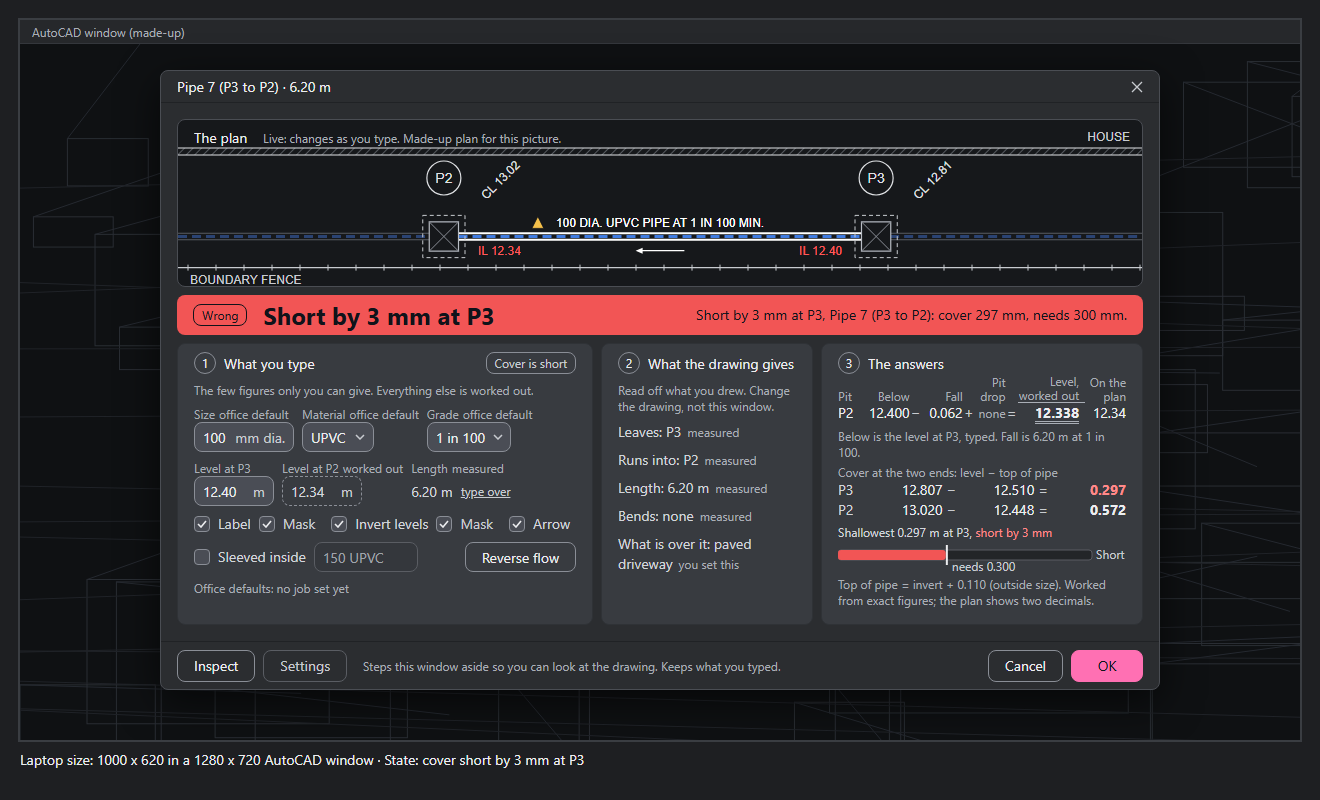
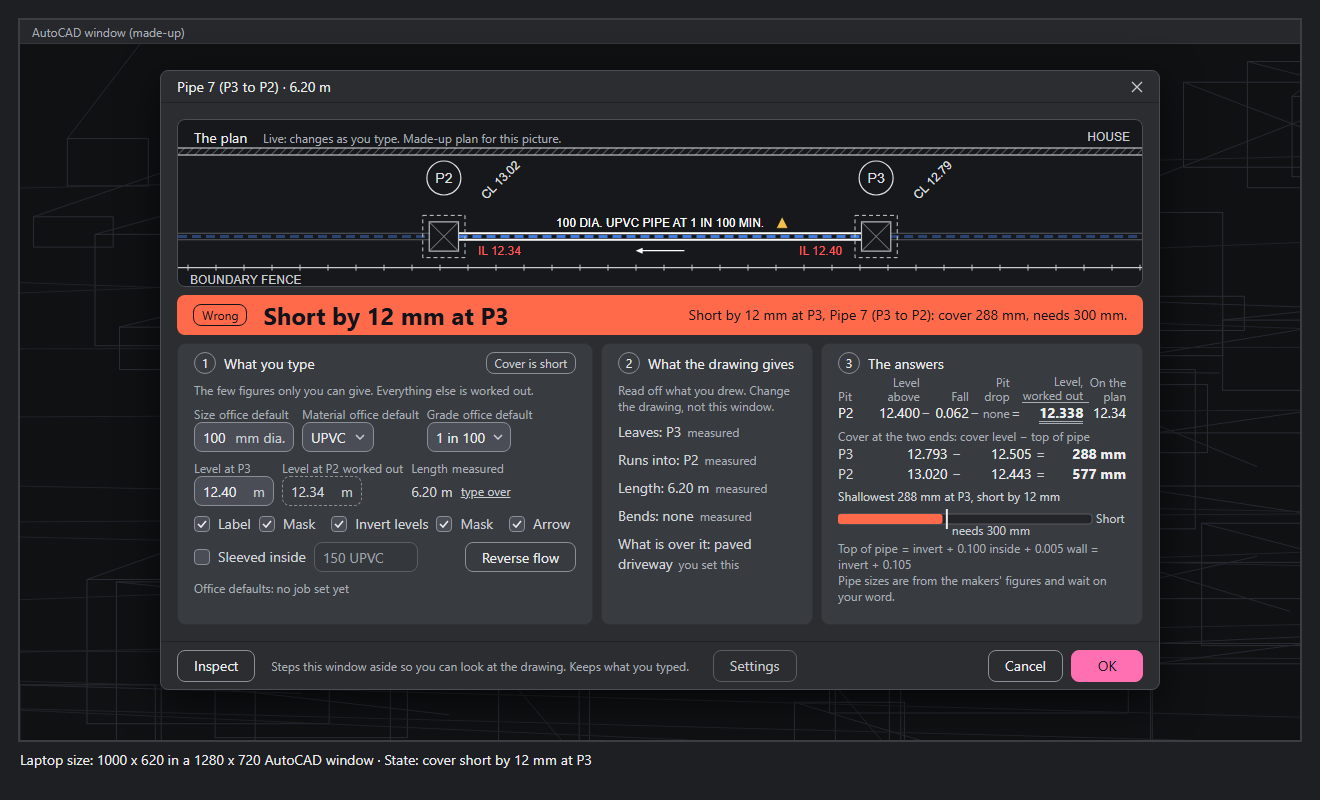
Tim's room: single-pipe window, Settings window and sheets after the third and fourth fix passes (check room's second look, D-426)

diff --git a/zero/pictures/single_pipe_window.html b/zero/pictures/single_pipe_window.html
@@ -6,7 +6,7 @@
 <title>Pipe window for one pipe</title>
 <style>
   :root{--win:#2B2D30;--card:#383B40;--well:#232528;--inp:#4A4D55;--bd:#4A4D53;--ibd:#8A8E96;--cad:#16181B;
-        --text:#ECEDEF;--body:#D2D5DA;--grey:#A9AEB6;--unit:#C8CBD0;--amber:#F5C04A;--green:#5ED08F;--red:#F25555;--redtx:#FF8A8A;--rose:#FF70B3;--dark:#10131A}
+        --text:#ECEDEF;--body:#D2D5DA;--grey:#A9AEB6;--unit:#C8CBD0;--amber:#F5C04A;--green:#5ED08F;--red:#FF6B4A;--redtx:#ECEDEF;--rose:#FF70B3;--dark:#10131A}
   *{box-sizing:border-box}
   html,body{margin:0;background:#1E1F22;font-family:"Segoe UI",Arial,sans-serif;font-size:14px;color:var(--body);overflow:hidden}
   body{padding:20px;font-variant-numeric:tabular-nums}
@@ -140,7 +140,7 @@
   <svg class="bg" id="bg"></svg>
 
   <div class="win">
-    <div class="tb"><span>Pipe 7 (P3 to P2) &middot; 6.20 m</span>
+    <div class="tb"><span id="ttl">Pipe 7 (P3 to P2) &middot; 6.20 m</span>
       <svg width="12" height="12" viewBox="0 0 12 12"><path d="M1 1l10 10M11 1L1 11" stroke="#C8CBD0" stroke-width="1.3" fill="none"/></svg></div>
 
     <div class="wb">
@@ -155,8 +155,8 @@
           <div class="ch"><span class="num">1</span><span>What you type</span><span class="sp"></span><span class="tag out" id="s1tag">Nothing needs you</span></div>
           <div class="why">The few figures only you can give. Everything else is worked out.</div>
           <div class="rows">
-            <div class="r">
-              <div class="f"><span class="l">Size<span class="src">office default</span></span><div class="box" style="width:100px">100<span class="u">mm dia.</span></div></div>
+            <div class="r" id="row1">
+              <div class="f"><span class="l">Size<span class="src">office default</span></span><div class="box" id="sizebox" style="width:100px">100<span class="u">mm dia.</span></div></div>
               <div class="f"><span class="l">Material<span class="src">office default</span></span><div class="box" style="width:72px">UPVC<span class="u chev"></span></div></div>
               <div class="f"><span class="l">Grade<span class="src">office default</span></span><div class="box" style="width:84px">1 in 100<span class="u chev"></span></div></div>
             </div>
@@ -209,7 +209,7 @@
     </div>
 
     <div class="bar">
-      <div class="btn">Inspect</div><div class="btn quiet">Settings</div><span class="grey note">Steps this window aside so you can look at the drawing. Keeps what you typed.</span>
+      <div class="btn">Inspect</div><span class="grey note">Steps this window aside so you can look at the drawing. Keeps what you typed.</span><div class="btn quiet" style="margin-left:16px">Settings</div>
       <span class="sp"></span>
       <div class="btn cn">Cancel</div><div class="btn ok">OK</div>
     </div>
@@ -222,39 +222,43 @@ var NS="http://www.w3.org/2000/svg",CAD="#16181B",BLUE="#3F7BE0",RED="#FF5A5A",A
 function el(n,a,t){var e=document.createElementNS(NS,n);for(var k in a)e.setAttribute(k,a[k]);if(t!==undefined)e.textContent=t;return e}
 var q=(location.search.match(/v=(\w+)/)||[])[1]==="desktop"?"desktop":"laptop";
 var S=(location.search.match(/s=(\w+)/)||[])[1]||"noover";     // noover (default) | cover | wrong | nolevel | nosurface
-if(["noover","cover","wrong","nolevel","nosurface"].indexOf(S)<0)S="noover";
+if(["noover","cover","within","wrong","nolevel","nosurface","existing"].indexOf(S)<0)S="noover";
 var LONG=/n=long/.test(location.search);                         // fit test only: four-character pit names
-var NA=LONG?"P12A":"P2",NB=LONG?"P11B":"P3";
+var NA=LONG?"P12A":"P2",NB=LONG?"P13B":"P3";
 document.body.className=q;
-var SN={noover:"what is over it not set (the default view)",cover:"what is over it set, cover suits",wrong:"cover short by 3 mm at "+NB,nolevel:"no level typed",nosurface:"what is over it set, levels known, no cover level at "+NB};
+document.getElementById("ttl").textContent="Pipe 7 ("+NB+" to "+NA+") · 6.20 m";
+var SN={noover:"what is over it not set (the default view)",cover:"what is over it set, cover suits",within:"what is over it set, cover 297 mm, within the 5 mm tolerance",wrong:"cover short by 12 mm at "+NB,nolevel:"no level typed",nosurface:"what is over it set, levels known, no cover level at "+NB,existing:"a pipe already drawn, opened again (as by a double-click)"};
 document.getElementById("cap").textContent=(q==="laptop"?"Laptop size: 1000 x 620 in a 1280 x 720 AutoCAD window":"Desktop size: 1240 x 780 in a 1920 x 1040 AutoCAD window")+" · State: "+SN[S];
 Array.prototype.forEach.call(document.querySelectorAll(".chev"),function(e){e.innerHTML='<svg width="10" height="6" viewBox="0 0 10 6" style="display:block"><path d="M1 1l4 4 4-4" fill="none" stroke="#C8CBD0" stroke-width="1.5"/></svg>'});
 
 /* ---- the figures, exact in whole millimetres; only what is printed is rounded ---- */
-var OVER=(S==="cover"||S==="wrong"), NOLEV=(S==="nolevel"), WRONG=(S==="wrong"), NOSURF=(S==="nosurface");
+var EXIST=(S==="existing"), OVER=(S==="cover"||S==="within"||S==="wrong"), WITHIN=(S==="within"), NOLEV=(S==="nolevel"), WRONG=(S==="wrong"), NOSURF=(S==="nosurface");
 var LENMM=6200;                      // pipe 7, P3 to P2, pit wall to pit wall
 var UP=12400;                        // level at P3, typed (mm)
 var FALL=LENMM/100;                  // 1 in 100 exactly: 6200 / 100 = 62 mm
 var DOWN=UP-FALL;                    // level at P2, worked out = 12338 mm
-var OUTSZ=110, NEED=300;             // the pipe's outside size, cover needed (mm)
-var CL2=13020, CL3=WRONG?12807:13100;// cover levels at P2 and P3 (mm)
-var TOP3=UP+OUTSZ, TOP2=DOWN+OUTSZ;  // tops of pipe at each end
+var INS=100, WALL=5, TOPADD=INS+WALL, NEED=300, TOL=5;  // 100 UPVC: inside 0.100 + one wall 0.005 (outside 110, so (110-100)/2) = 0.105 above the invert; cover needed; tolerance (mm)
+var CL2=13020, CL3=WRONG?12793:(WITHIN?12802:13100);// cover levels at P2 and P3 (mm)
+var TOP3=UP+TOPADD, TOP2=DOWN+TOPADD;  // tops of pipe at each end
 var COV3=CL3-TOP3, COV2=CL2-TOP2;    // cover at each end
 var SHALLOW=Math.min(COV3,COV2), SHAL_AT=COV3<=COV2?NB:NA, SHORT=NEED-SHALLOW;
 function f3(mm){return (mm/1000).toFixed(3)}
 function f2r(mm){return (Math.floor((mm+5)/10)/100).toFixed(2)}   // round half up to 2 decimals, only for printing
 function lenTxt(){return (LENMM/1000).toFixed(2)+" m"}
-if(FALL!==62||DOWN!==12338||f2r(DOWN)!=="12.34"||f2r(UP)!=="12.40"||TOP3!==12510||TOP2!==12448)throw new Error("sum");
-if(!WRONG&&(COV3!==590||COV2!==572))throw new Error("cover sum");
-if(WRONG&&(COV3!==297||SHORT!==3))throw new Error("cover sum wrong");
+if(FALL!==62||DOWN!==12338||f2r(DOWN)!=="12.34"||f2r(UP)!=="12.40"||TOP3!==12505||TOP2!==12443)throw new Error("sum");
+if(OVER&&COV2!==577)throw new Error("cover sum P2");
+if(S==="cover"&&COV3!==595)throw new Error("cover sum");
+if(WITHIN&&(COV3!==297||SHORT!==3||SHORT>TOL))throw new Error("cover sum within");
+if(WRONG&&(COV3!==288||SHORT!==12||SHORT<=TOL))throw new Error("cover sum wrong");
 var NK="Not known";
 
 /* the band */
 (function(){var b=document.getElementById("band"),h;
   if(NOLEV){b.className="band gry";h='<span class="pill">Cannot check yet</span><span class="ans">Levels: Not known</span><span class="bn">Type one level to work out the rest</span>'}
-  else if(NOSURF){b.className="band gry";h='<span class="pill">Cannot check yet</span><span class="ans">Cover: Not known</span><span class="bn">No cover level at '+NB+'</span>'}
+  else if(NOSURF){b.className="band gry";h='<span class="pill">Cannot check yet</span><span class="ans">Cover: Not known</span><span class="bn">'+NB+' needs a cover level</span>'}
   else if(WRONG){b.className="band red";h='<span class="pill">Wrong</span><span class="ans">Short by '+SHORT+' mm at '+SHAL_AT+'</span><span class="bn">Short by '+SHORT+' mm at '+SHAL_AT+', Pipe 7 ('+NB+' to '+NA+'): cover '+SHALLOW+' mm, needs '+NEED+' mm.</span>'}
-  else if(OVER){h='<span class="pill">Suits</span><span class="ans">Fall 1 in 100</span><span class="bn">Cover '+(SHALLOW/1000).toFixed(2)+' m, needs '+(NEED/1000).toFixed(2)+' m</span>'}
+  else if(WITHIN){h='<span class="pill">Suits</span><span class="ans">Fall 1 in 100</span><span class="bn">Cover '+SHALLOW+' mm: within the '+TOL+' mm tolerance</span>'}
+  else if(OVER){h='<span class="pill">Suits</span><span class="ans">Fall 1 in 100</span><span class="bn">Cover '+SHALLOW+' mm, needs '+NEED+' mm</span>'}
   else{h='<span class="pill">Suits</span><span class="ans">Fall 1 in 100</span>'}
   b.innerHTML=h})();
 
@@ -267,45 +271,49 @@ document.getElementById("p3l").textContent="Level at "+NB;document.getElementByI
   if(NOLEV){a.innerHTML='<span class="nk">'+NK+'</span>';b.innerHTML='<span class="nk">'+NK+'</span>';w.textContent="";
     document.getElementById("s1tag").textContent="Needs one level"}
   else{a.innerHTML='<span>'+f2r(UP)+'</span><span class="u">m</span>';b.innerHTML='<span>'+f2r(DOWN)+'</span><span class="u">m</span>'}})();
+if(EXIST){var ss=document.querySelectorAll("#row1 .l .src");ss[0].textContent="measured";ss[1].textContent="read off the pipe";ss[2].textContent="read off the pipe";document.getElementById("sizebox").className="box dash"}
 if(OVER||NOSURF)document.getElementById("s2over").style.display="";
 if(WRONG)document.getElementById("s1tag").textContent="Cover is short";
-if(NOSURF)document.getElementById("s1tag").textContent="Needs a cover level";
+if(NOSURF)document.getElementById("s1tag").textContent=NB+" needs a cover level";
 
 /* step 3: the fall sum */
 /* ONE table row, the run window's columns: Pit, Below, Fall, Pit drop, Level worked out, On the plan.
-   Below is the level at the pit the figure is worked from (P3, typed); the fall is taken off it going down to P2. */
+   Above is the level at the higher pit (P3, typed); the fall and the pit drop are taken off it going down to P2. */
 (function(){var t=document.getElementById("t3"),nt=document.getElementById("t3n");
-  var w=NOLEV?(q==="laptop"?[22,46,12,40,12,30,12,52,44]:[24,62,14,46,14,40,14,66,62]):(q==="laptop"?[20,50,12,40,12,30,12,66,40]:[28,60,16,50,16,44,16,70,52]);
+  var w=NOLEV?(q==="laptop"?[34,46,12,34,12,28,12,56,44]:[38,62,14,44,14,38,14,66,62]):(q==="laptop"?[34,46,12,36,12,28,12,66,36]:[38,58,16,48,16,42,16,68,50]);
   var h='<colgroup>'+w.map(function(x){return '<col style="width:'+x+'px">'}).join('')+'</colgroup>';
-  h+='<tr><th style="text-align:left">Pit</th><th>Below</th><th></th><th>Fall</th><th></th><th>Pit<br>drop</th><th></th><th>Level,<br>worked out</th><th>On the<br>plan</th></tr>';
+  h+='<tr><th style="text-align:left">Pit</th><th>Level<br>above</th><th></th><th>Fall</th><th></th><th>Pit<br>drop</th><th></th><th>Level,<br>worked out</th><th>On the<br>plan</th></tr>';
   var NKT=q==="laptop"?'Not<br>known':NK;          /* two short lines at laptop width so three of them fit in one row */
   var NKS='<span class="nk">'+NKT+'</span>';
-  h+='<tr><td class="pn">'+NA+'</td><td>'+(NOLEV?NKS:f3(UP))+'</td><td class="sg">&minus;</td><td>'+f3(FALL)+'</td><td class="sg">+</td><td class="none">none</td><td class="sg">=</td>'
+  h+='<tr><td class="pn">'+NA+'</td><td>'+(NOLEV?NKS:f3(UP))+'</td><td class="sg">&minus;</td><td>'+f3(FALL)+'</td><td class="sg">&minus;</td><td class="none">none</td><td class="sg">=</td>'
     +'<td class="fin">'+(NOLEV?'<b class="nk">'+NKT+'</b>':'<b>'+f3(DOWN)+'</b>')+'</td><td>'+(NOLEV?NKS:f2r(DOWN))+'</td></tr>';
   t.innerHTML=h;
-  nt.textContent=NOLEV?'Below is the level at '+NB+': '+NK+'. Fall is '+lenTxt()+' at 1 in 100.':'Below is the level at '+NB+', typed. Fall is '+lenTxt()+' at 1 in 100.';
-  if(NOSURF)nt.innerHTML=nt.textContent+'<br>Cover at '+NA+' is '+f3(COV2)+' m. Cover at '+NB+': '+NK+', no cover level there.'})();
+  nt.textContent=NOLEV?'Above is the level at '+NB+': '+NK+'. Fall is '+lenTxt()+' at 1 in 100.':'Above is the level at '+NB+', typed. Fall is '+lenTxt()+' at 1 in 100.';
+  if(NOSURF)nt.innerHTML=nt.textContent+'<br>Cover at '+NA+' is '+COV2+' mm. Cover at '+NB+': '+NK+', no cover level there.'})();
 
 /* step 3: the cover check, at the two ends only, with its bar */
 if(OVER){(function(){var blk=document.getElementById("cvblock");blk.style.display="";
-  var lap=q==="laptop",w=lap?[24,58,14,58,14,58]:[30,70,18,70,18,70];
-  function row(nm,cl,top,cov,bad){return '<tr><td class="lb">'+nm+'</td><td class="fg">'+f3(cl)+'</td><td class="sg">&minus;</td><td class="fg">'+f3(top)+'</td><td class="sg">=</td><td class="fg'+(bad?' bad':'')+'"><b>'+f3(cov)+'</b></td></tr>'}
-  var h='<div class="grey cvh">Cover at the two ends: level &minus; top of pipe</div>';
+  var lap=q==="laptop",w=lap?[34,52,14,52,14,60]:[38,66,18,66,18,76];
+  function row(nm,cl,top,cov,bad){return '<tr><td class="lb">'+nm+'</td><td class="fg">'+f3(cl)+'</td><td class="sg">&minus;</td><td class="fg">'+f3(top)+'</td><td class="sg">=</td><td class="fg'+(bad?' bad':'')+'"><b>'+cov+' mm</b></td></tr>'}
+  var h='<div class="grey cvh">Cover at the two ends: cover level &minus; top of pipe</div>';
   h+='<table class="sum cvt"><colgroup>'+w.map(function(x){return '<col style="width:'+x+'px">'}).join('')+'</colgroup>'
     +row(NB,CL3,TOP3,COV3,WRONG)+row(NA,CL2,TOP2,COV2,false)+'</table>';
-  h+='<div class="cvline">Shallowest '+f3(SHALLOW)+' m at '+SHAL_AT+(WRONG?', <span class="bad">short by '+SHORT+' mm</span>':' against '+f3(NEED)+' m needed')+'</div>';
+  h+='<div class="cvline">Shallowest '+SHALLOW+' mm at '+SHAL_AT+(WRONG?', short by '+SHORT+' mm':' against '+NEED+' mm needed')+'</div>';
+  if(WITHIN)h+='<div class="cvline">Cover at '+NB+' '+SHALLOW+' mm: within the '+TOL+' mm tolerance</div>';
   h+='<svg id="cvbar"></svg>';
   blk.innerHTML=h;
   var W=blk.clientWidth,H=30,s=document.getElementById("cvbar");s.setAttribute("width",W);s.setAttribute("height",H);s.setAttribute("viewBox","0 0 "+W+" "+H);
-  var maxv=700,x0=0,x1=W-34,sc=(x1-x0)/maxv, ok=!WRONG, col=ok?"#5ED08F":"#F25555";
+  var maxv=700,x0=0,x1=W-34,sc=(x1-x0)/maxv, ok=!WRONG, col=ok?"#5ED08F":"#FF6B4A";
   s.appendChild(el("rect",{x:x0,y:8,width:x1-x0,height:10,rx:3,fill:"#232528",stroke:"#5A5D63","stroke-width":1}));
   s.appendChild(el("rect",{x:x0,y:8,width:Math.max(2,SHALLOW*sc),height:10,rx:3,fill:col}));
   s.appendChild(el("line",{x1:NEED*sc,y1:3,x2:NEED*sc,y2:23,stroke:"#ECEDEF","stroke-width":2}));
-  s.appendChild(el("text",{x:NEED*sc+5,y:H-1,"font-size":12,style:"fill:#C8CBD0;font-family:'Segoe UI',Arial,sans-serif"},"needs 0.300"));
+  s.appendChild(el("text",{x:NEED*sc+5,y:H-1,"font-size":12,style:"fill:#C8CBD0;font-family:'Segoe UI',Arial,sans-serif"},"needs 300 mm"));
   s.appendChild(el("text",{x:x1+4,y:17,"font-size":12,style:"fill:#C8CBD0;font-family:'Segoe UI',Arial,sans-serif"},ok?"Suits":"Short"));
   if(lap){document.getElementById("why3").style.display="none";document.querySelector(".s3b").style.marginTop="4px"}else document.getElementById("why3").textContent="Does it fall enough, and is there enough cover?";
   document.getElementById("side").style.display="none";
-  document.getElementById("n3").textContent="Top of pipe = invert + "+f3(OUTSZ)+" (outside size). Worked from exact figures; the plan shows two decimals."})()}
+  if(lap)document.getElementById("t3n").style.display="none";   /* laptop: the "Above is..." note goes so the cover check and its sums fit */
+  var n3=document.getElementById("n3");n3.style.whiteSpace="normal";
+  n3.innerHTML="Top of pipe = invert + "+f3(INS)+" inside + "+f3(WALL)+" wall = invert + "+f3(TOPADD)+"<br>Pipe sizes are from the makers' figures and wait on your word."})()}
 
 /* side view: the one pipe, sloping down to P2 on the left (slope drawn bigger than real) */
 (function(){var s=document.getElementById("side");if(s.style.display==="none")return;var W=s.parentNode.clientWidth,H=q==="laptop"?40:56;
@@ -366,7 +374,7 @@ if(OVER){(function(){var blk=document.getElementById("cvblock");blk.style.displa
   var mx=(xa+xb)/2;
   // (a) label centred above the pipe
   var lab=txt(mx,py-OFF,"100 DIA. UPVC PIPE AT 1 IN 100 MIN.","#fff","middle");
-  if(WRONG){var lw=lab.getBBox().width,mh=12,mcx=mx-lw/2-mh-mh/2,mcy=py-OFF;   // amber marker: as wide as tall, as tall as the label text, one text height clear
+  if(WRONG){var lw=lab.getBBox().width,mh=12,mcx=mx+lw/2+mh+mh/2,mcy=py-OFF;   // amber marker: as wide as tall, as tall as the label text, one text height clear
     s.appendChild(el("polygon",{points:mcx+","+(mcy-mh/2)+" "+(mcx-mh/2)+","+(mcy+mh/2)+" "+(mcx+mh/2)+","+(mcy+mh/2),fill:AMB,stroke:"#10131A","stroke-width":0.8,id:"amber"}))}
   // (b) red invert levels below the pipe, 200 mm from the OUTER DASHED LINE of each pit (not shown when no level is typed)
   var e=200*K;

diff --git a/zero/pictures/night_sheets.html b/zero/pictures/night_sheets.html
@@ -3,7 +3,7 @@
 <head>
 <meta charset="utf-8">
 <meta name="viewport" content="width=device-width, initial-scale=1">
-<title>Five more questions for you</title>
+<title>Three more questions for you</title>
 <style>
   :root{--page:#2B2D30;--card:#383B40;--cad:#16181B;--text:#ECEDEF;--grey:#C8CBD0;--line:#4A4D53;--rose:#FF70B3}
   *{box-sizing:border-box}
@@ -67,9 +67,6 @@ function arrow(s,x,y,dir,L,H,open){var x1=x-dir*L/2,x2=x+dir*L/2,hw=H*0.21;
   if(open){s.appendChild(el("line",{x1:x2,y1:y,x2:x2-dir*H,y2:y-hw,stroke:"#fff","stroke-width":1.2}));
     s.appendChild(el("line",{x1:x2,y1:y,x2:x2-dir*H,y2:y+hw,stroke:"#fff","stroke-width":1.2}))}
   else s.appendChild(el("polygon",{points:x2+","+y+" "+(x2-dir*H)+","+(y-hw)+" "+(x2-dir*H)+","+(y+hw),fill:"#fff",stroke:"#fff","stroke-width":1}))}
-// amber triangle marker, h tall
-function mark(s,cx,cy,h){s.appendChild(el("polygon",{points:cx+","+(cy-h*0.55)+" "+(cx-h*0.62)+","+(cy+h*0.45)+" "+(cx+h*0.62)+","+(cy+h*0.45),fill:AMBER,stroke:"#10131A","stroke-width":0.8}))}
-
 /* ---------- SECTION 1 ---------- */
 function coverPanel(mode){var s=svg(428,295),x=214,y=128;pit(s,x,y);pipe(s,x+mm(225),400,y);brk(s,400,y);
   var CL="CL 12.95",w=tw(CL,200),d0=EDGE*1.4142,start=d0+mm(400),cen=start+w/2,q=cen*0.7071,e=(start+w+16)*0.7071;
@@ -81,33 +78,6 @@ function coverPanel(mode){var s=svg(428,295),x=214,y=128;pit(s,x,y);pipe(s,x+mm(
     txt(s,x+c[0]*q,y+c[1]*q,CL,200,{rot:rot});
     badge(s,x+c[0]*e,y+c[1]*e,c[2])});
   say(s,214,284,"400 mm off the corner of the pit's outer dashed line","middle");return s}
-
-/* ---------- SECTION 2 ---------- */
-function flowPanel(L,H,open,cap,closeScale){var s=svg(882,190),y=100,X2=110,X3=686,c=(X2+X3)/2;
-  pit(s,X2,y);pit(s,X3,y);pipe(s,X2+mm(225),X3-mm(225),y);tag(s,X2,y-mm(900),"P2");tag(s,X3,y-mm(900),"P3");
-  txt(s,c,y-offL,LBL,250);ilL(s,X2,y,"IL 12.31");ilR(s,X3,y,"IL 12.40");
-  arrow(s,c,y+offA,-1,mm(L),mm(H),open);
-  say(s,c,y+offA+46,cap,"middle");
-  s.appendChild(el("rect",{x:735,y:108,width:140,height:64,fill:"none",stroke:"#4A4D53","stroke-width":1}));
-  say(s,805,102,"close-up","middle");
-  var g=el("g",{transform:"translate(805 140) scale("+closeScale+")"});arrow(g,0,0,-1,mm(L),mm(H),open);s.appendChild(g);return s}
-
-/* ---------- SECTION 3 ---------- */
-function copiedPanel(approx){var s=svg(882,250),y=190,X6=130,X7=706,c=(X6+X7)/2,P=approx?"APPROX. ":"";
-  pit(s,X6,y);pit(s,X7,y);pipe(s,X6+mm(225),X7-mm(225),y);tag(s,X6,y-mm(900),"P6");tag(s,X7,y-mm(900),"P7");
-  txt(s,c,y-offL,LBL,250);ilL(s,X6,y,P+"IL 12.31");ilR(s,X7,y,P+"IL 12.40");
-  arrow(s,c,y+offA,-1,mm(750),mm(300),false);
-  [X6,X7].forEach(function(X){var CL=P+"CL 12.95",w=tw(CL,200),r=EDGE*1.4142+mm(400)+w/2,q=r*0.7071;txt(s,X+q,y-q,CL,200,{rot:-45})});
-  if(approx){say(s,c,240,"every figure carries APPROX. until it is confirmed; no amber markers","middle")}
-  else{
-    // one triangle beside each assumed figure: as tall as that text, one text height clear of it
-    var ih=fsz(180),ch=fsz(200),iw=tw("IL 12.31",180),aw=iw*0.8,
-        ex=X6+EDGE+mm(200)+aw;                       // right end of the left invert level
-    mark(s,ex+ih+ih*0.62,y+offI,ih);                 // beside IL (left pit): to the right of it
-    mark(s,X7-EDGE-mm(200)-aw-ih-ih*0.62,y+offI,ih); // beside IL (right pit): to the left of it
-    [X6,X7].forEach(function(X){var w=tw("CL 12.95",200),r=EDGE*1.4142+mm(400)+w/2,d=r+w*0.4+ch+ch*0.62,q=d*0.7071;mark(s,X+q,y-q,ch)});
-    say(s,c,240,"amber marker: assumed, not confirmed (never printed)","middle")}
-  return s}
 
 /* ---------- SECTION 4 ---------- */
 function screen4(withPit){var s=svg(428,300),W="#3A3E45";
@@ -161,36 +131,25 @@ function hoverPanel(which){var s=svg(882,250),y=120,X2=170,X3=690,c=(X2+X3)/2,r=
   arrow(s,c,y+offA,-1,mm(750),mm(300),false);
   [[X2,"CL 13.02"],[X3,"CL 13.10"]].forEach(function(p){var w=tw(p[1],200),rr=EDGE*1.4142+mm(400)+w/2,q=rr*0.7071;txt(s,p[0]+q,y-q,p[1],200,{rot:-45})});
   if(which==="pit"){cursor(s,X3+3,y+3);tip(s,X3+30-340,y+52,"P3 · 450 x 450 mm junction pit · CL 13.10","Double-click to change it",340)}
-  else{cursor(s,X2+150,y+1);tip(s,X2+170,y+52,"Pipe 7 (P3 to P2) · 100 dia. UPVC · 1 in 100 · 6.20 m","Double-click to change it",450)}
+  else{cursor(s,X2+150,y+1);tip(s,X2+170,y+52,"Pipe 7 (P3 to P2) · 100 mm dia. UPVC · 1 in 100 · 6.20 m","Double-click to change it",490)}
   return s}
 
 var Q=[
-{h:"Which way should the cover level’s words run at each corner?",
- foot:"Earlier today you ruled the 400 mm is measured to the start of the text; on the left-hand corners options A and B differ on exactly that.",
+{n:1,h:"Which way should the cover level’s words run at each corner?",
+ foot:"Earlier today you picked the 400 mm is measured to the start of the text; on the left-hand corners options A and B differ on exactly that.",
  ctx:"You said: “the cover level text always needs to be aligned from pit outwards”. Each picture shows one pit with the cover level at all four corners at once, only so you can compare. Badge 1 is top right, then clockwise. It is always at 45 degrees to the sheet.",
  body:function(sec){var two=document.createElement("div");two.className="two";
   add(two,"A. Always reads the right way up",coverPanel("A"),"On the right-hand corners the words start at the pit; on the left-hand corners they end at the pit. None is ever upside down.",1,"On the left-hand corners the 400 mm is measured to the END of the words, not their start.");
   add(two,"B. Always begins at the pit",coverPanel("B"),"The words always run away from the pit; on the left-hand corners they read upside down.",0,"This is how your words on the grips were first written down: the words always begin at the pit.");
   sec.appendChild(two)}},
-{h:"The flow arrow: what it looks like",
- ctx:"The same pipe each time: 9000 mm long from P3 down to P2, label above, invert levels below, the arrow below the pipe in the middle. Only the arrow changes. The close-up is the same arrow, enlarged.",
- body:function(sec){
-  add(sec,"A. As on your issued sheets",flowPanel(750,300,false,"750 mm long, solid head 300 mm long",2.7),"The arrow you draw today: 750 mm long, solid head. Not to scale.",1);
-  add(sec,"B. Shorter",flowPanel(500,200,false,"500 mm long, solid head 200 mm long",2.7),"Takes less room between the two levels on a short pipe. Not to scale.");
-  add(sec,"C. Open head",flowPanel(750,300,true,"750 mm long, open head 300 mm long, not filled",2.7),"Lighter on a busy plan; not how your sheets look now. Not to scale.")}},
-{h:"Levels copied to the next unit: how ‘assumed’ shows",
- ctx:"You ruled that when a system is copied to the mirror unit the levels copy across but are marked assumed until confirmed, and an assumed figure prints “APPROX.” in front. Here is one copied pipe, P7 down to P6, 9000 mm long.",
- body:function(sec){
-  add(sec,"A. APPROX. on the plan, until you confirm",copiedPanel(true),"The sheet itself says the levels are not confirmed. Confirm a level in its window and APPROX. goes.",1);
-  add(sec,"B. Plain levels with the amber marker",copiedPanel(false),"The plan looks finished; only the marker on screen tells you. Nothing on the printed sheet warns anyone.")}},
-{h:"While the Pit window is open: is the new pit also on the drawing behind?",
+{n:4,h:"While the Pit window is open: is the new pit also on the drawing behind?",
  top:"On 18 Nov you picked ‘Both: top preview in the window, and the real drawing lights up’. Today you said the live view belongs in the window’s own panel. Which do you want now?",
  ctx:"You have clicked a spot for a new pit and its window is open. Both pictures are the same moment on the AutoCAD screen: a faint house wall and path, the Pit window floating over part of it. The window here is only a stand-in.",
  body:function(sec){var two=document.createElement("div");two.className="two";
   add(two,"A. Only in the window until you press OK",screen4(false),"One place to look. The pit lands on the drawing when you press OK; Cancel leaves nothing behind.",0,"The pit that followed your cursor disappears from the drawing when the window opens, and comes back when you press OK.");
-  add(two,"B. In the window and on the drawing behind",screen4(true),"Drag the window aside and the pit is already there. Cancel removes it.",0,"Shown on the drawing, not saved until OK; Cancel removes it.");
+  add(two,"B. In the window and on the drawing behind",screen4(true),"Drag the window aside and the pit is already there.",0,"Shown on the drawing, not saved until OK; Cancel removes it.");
   sec.appendChild(two)}},
-{h:"Hovering over a pit or a pipe",
+{n:5,h:"Hovering over a pit or a pipe",
  ctx:"A proposal for you to correct. Rest the cursor on a part, without clicking, and it lights up and a small tip says what it is. The two pictures are two different moments, one after the other: you have one cursor.",
  body:function(sec){
   add(sec,"Over a pit",hoverPanel("pit"),"The pit lights and says what it is. A single click selects it, as in plain AutoCAD. Not to scale.");
@@ -200,7 +159,7 @@ function add(parent,h,s,n,rec,n2){var d=document.createElement("div");d.classNam
   if(rec){var r=document.createElement("span");r.className="rec";r.textContent="Recommended";hh.appendChild(r)}
   d.appendChild(hh);d.appendChild(s);var p=document.createElement("p");p.className="note";p.textContent=n;d.appendChild(p);if(n2){var p2=document.createElement("p");p2.className="note";p2.style.color="#ECEDEF";p2.textContent=n2;d.appendChild(p2)}parent.appendChild(d)}
 var only=(location.search.match(/q=(\d)/)||[])[1],host=document.getElementById("host");
-Q.forEach(function(q,i){if(only&&only!=i+1)return;var sec=document.createElement("section");sec.className="q";
+Q.forEach(function(q){if(only&&only!=q.n)return;var sec=document.createElement("section");sec.className="q";
   sec.innerHTML="<h2></h2><p class='ctx'></p>";sec.querySelector("h2").textContent=q.h;sec.querySelector(".ctx").textContent=q.ctx;if(q.top){var t=document.createElement("p");t.className="top";t.textContent=q.top;sec.appendChild(t)}q.body(sec);if(q.foot){var f=document.createElement("p");f.className="foot";f.textContent=q.foot;sec.appendChild(f)}host.appendChild(sec)});
 </script>
 </body>

diff --git a/zero/pictures/ce_settings_window.html b/zero/pictures/ce_settings_window.html
@@ -15,7 +15,7 @@
   .strip{position:absolute;left:0;top:0;right:0;height:24px;background:#26282B;color:var(--grey);font-size:12px;line-height:24px;padding:0 12px;border-bottom:1px solid #34373C}
   .bg{position:absolute;left:0;top:24px}
 
-  .win{position:absolute;left:50%;top:50%;width:1200px;transform:translate(-50%,-50%);
+  .win{position:absolute;left:50%;top:50%;width:936px;transform:translate(-50%,-50%);
        background:var(--win);border:1px solid var(--bd);border-radius:8px;box-shadow:0 12px 40px rgba(0,0,0,.6);
        display:flex;flex-direction:column;overflow:hidden}
   .tb{height:32px;flex:none;display:flex;align-items:center;justify-content:space-between;padding:0 16px;color:var(--text);border-bottom:1px solid #202225}
@@ -23,20 +23,25 @@
   .wb{display:flex;flex-direction:column;gap:8px;padding:16px}
   .cols{display:flex;gap:8px;align-items:flex-start}
   .col{flex:1;min-width:0;display:flex;flex-direction:column;gap:8px}
-  .box.w{width:auto;min-width:120px}
+  .box.w{width:124px}
   .foot{white-space:normal}
 
   .grey{font-size:12px;color:var(--grey);line-height:16px;white-space:nowrap}
-  .card{flex:none;background:var(--card);border-radius:8px;padding:8px 12px;border:1px solid #2F3236}
-  .gh{color:var(--text);line-height:20px;height:20px;margin-bottom:4px}
+  .card{flex:none;background:var(--card);border-radius:8px;padding:8px 10px;border:1px solid #2F3236}
+  .gh{color:var(--text);line-height:20px;height:20px;margin-bottom:4px;display:flex;justify-content:space-between;align-items:center}
   .row{display:flex;align-items:center;gap:8px;height:28px;border-top:1px solid #43464C}
   .gh + .row{border-top:0}
   .nm{flex:1;min-width:0;color:var(--body);white-space:nowrap}
-  .box{flex:none;width:120px;height:24px;background:var(--inp);border:1px solid var(--ibd);border-radius:8px;display:flex;align-items:center;padding:0 8px;color:var(--text);gap:8px;white-space:nowrap}
+  .box{flex:none;width:100px;height:24px;background:var(--inp);border:1px solid var(--ibd);border-radius:8px;display:flex;align-items:center;padding:0 8px;color:var(--text);gap:8px;white-space:nowrap}
   .box .u{margin-left:auto;color:var(--unit)}
-  .slot{flex:none;width:64px;display:flex}
-  .tag{border-radius:8px;padding:0 8px;font-size:12px;line-height:18px;white-space:nowrap;border:1px solid var(--ibd);color:var(--unit);background:transparent}
-  .ov{flex:none;width:104px}
+    .tag{border-radius:8px;padding:0 8px;font-size:12px;line-height:18px;white-space:nowrap;border:1px solid var(--ibd);color:var(--unit);background:transparent}
+  .ov{flex:none;width:56px;text-align:right}
+  .col.l{flex:none;width:476px}
+  .col.r .box{width:112px}
+  .col.r .box.w{width:128px}
+  .nm{display:flex;align-items:center;gap:8px}
+  .colh{display:flex;justify-content:flex-end;height:16px;margin:0 0 2px}
+  .colh span{width:52px;text-align:right}
 
   .bar{height:48px;flex:none;border-top:1px solid #202225;display:flex;align-items:center;padding:0 16px;gap:8px}
   .bar .sp{flex:1}
@@ -75,19 +80,19 @@ var CH='<svg width="10" height="6" viewBox="0 0 10 6" style="display:block"><pat
 /* every Stage 1 setting (D-419 item 6), in two columns of groups; r[5] = a wide box for a words value */
 var G=[
  ["Pipe text",[["Label, clear of the pipe","75","mm"],["Invert level, from the pit's outer line","200","mm"],["Invert level, furthest it may slide","1,000","mm"]]],
- ["Pit text",[["Pit number, from the pit centre","600","mm","900 mm"],["Pit number, least gap to the pit","150","mm"],["Cover level, off the pit corner","400","mm"]]],
+ ["Pit text",[["Pit number, from the pit centre","600","mm","900 mm"],["Pit number, least gap to the pit","150","mm"],["Cover level, off the pit's outer line corner","400","mm"]]],
  ["Starting figures",[["New pipe size","100","mm dia.",0,1],["New pipe material","UPVC","",0,1],["New pipe grade","1 in 100","",0,1],["Drop across a pit","0.02","m"],["Tolerance on levels and cover","5","mm"]]],
- ["Markers and layers",[["Marker, height","as tall as the text beside it","",0,0,1],["Marker, gap","one text height","",0,0,1],["Layer for marks that never print","CE NO PLOT","",0,0,1],["Impervious outline, layer","50CONT","",0,0,1],["Impervious outline, width","70","mm"]]]
+ ["Markers and layers",[["Marker, height","1.0","x text height",0,0,1],["Marker, gap","1.0","x text height",0,0,1],["Layer for marks that never print","CE NO PLOT","",0,0,1],["Impervious outline, layer","50CONT","",0,0,1],["Impervious outline, width","70","mm"]]]
 ];
-function card(g){var s='<div class="card"><div class="gh">'+g[0]+'</div>';
-  g[1].forEach(function(r){
-    s+='<div class="row"><span class="nm">'+r[0]+'</span><div class="box'+(r[5]?' w':'')+'">'+r[1]+(r[2]?'<span class="u">'+r[2]+'</span>':'')+(r[4]?'<span class="u">'+CH+'</span>':'')+'</div>'+
-       '<div class="slot">'+(r[3]?'<span class="tag">Changed</span>':'')+'</div><span class="grey ov" style="width:112px">'+(r[3]?'office value '+r[3]:'office value')+'</span></div>';
+function card(g,hd){var s='<div class="card"><div class="gh"><span>'+g[0]+'</span>'+(hd?'<span class="grey" style="width:56px;text-align:right;overflow:visible">office value</span>':'')+'</div>';
+  g[1].forEach(function(r,i){
+    s+='<div class="row"><span class="nm">'+r[0]+(r[3]?'<span class="tag">Changed</span>':'')+'</span><div class="box'+(r[5]?' w':'')+'">'+r[1]+(r[2]?'<span class="u">'+r[2]+'</span>':'')+(r[4]?'<span class="u">'+CH+'</span>':'')+'</div>'+
+       '<span class="grey ov">'+(r[3]?r[3]:'&ndash;')+'</span></div>';
   });
   return s+'</div>'}
-var h='<div class="grey">These apply to this drawing only. The office value is shown beside each figure.</div>';
-h+='<div class="cols"><div class="col">'+card(G[0])+card(G[1])+'</div><div class="col">'+card(G[2])+card(G[3])+'</div></div>';
-h+='<div class="grey foot">A change moves nothing by itself: it applies to new text, and to text the tool places again when its part is next changed. Text you moved by hand is never moved.</div>';
+var h='<div class="grey">These apply to this drawing only. A grey dash means the figure is still the office value.</div>';
+h+='<div class="cols"><div class="col l">'+card(G[0],1)+card(G[1])+'</div><div class="col r">'+card(G[2],1)+card(G[3])+'</div></div>';
+h+='<div class="grey foot">A change moves nothing by itself: it applies to new text, and to text the tool places again when its part is next changed. Text you moved by hand is never moved.</div><div class="grey foot">A changed tolerance or default pipe is checked against a pipe when that pipe is next changed or its window is opened, never all pipes at once.</div>';
 document.getElementById("wb").innerHTML=h;
 (function(){var w=document.querySelector(".win").getBoundingClientRect();document.getElementById("cap").textContent="Settings size: "+Math.round(w.width)+" x "+Math.round(w.height)+" in a 1280 x 720 AutoCAD window (fitted to its list)"})();
 
